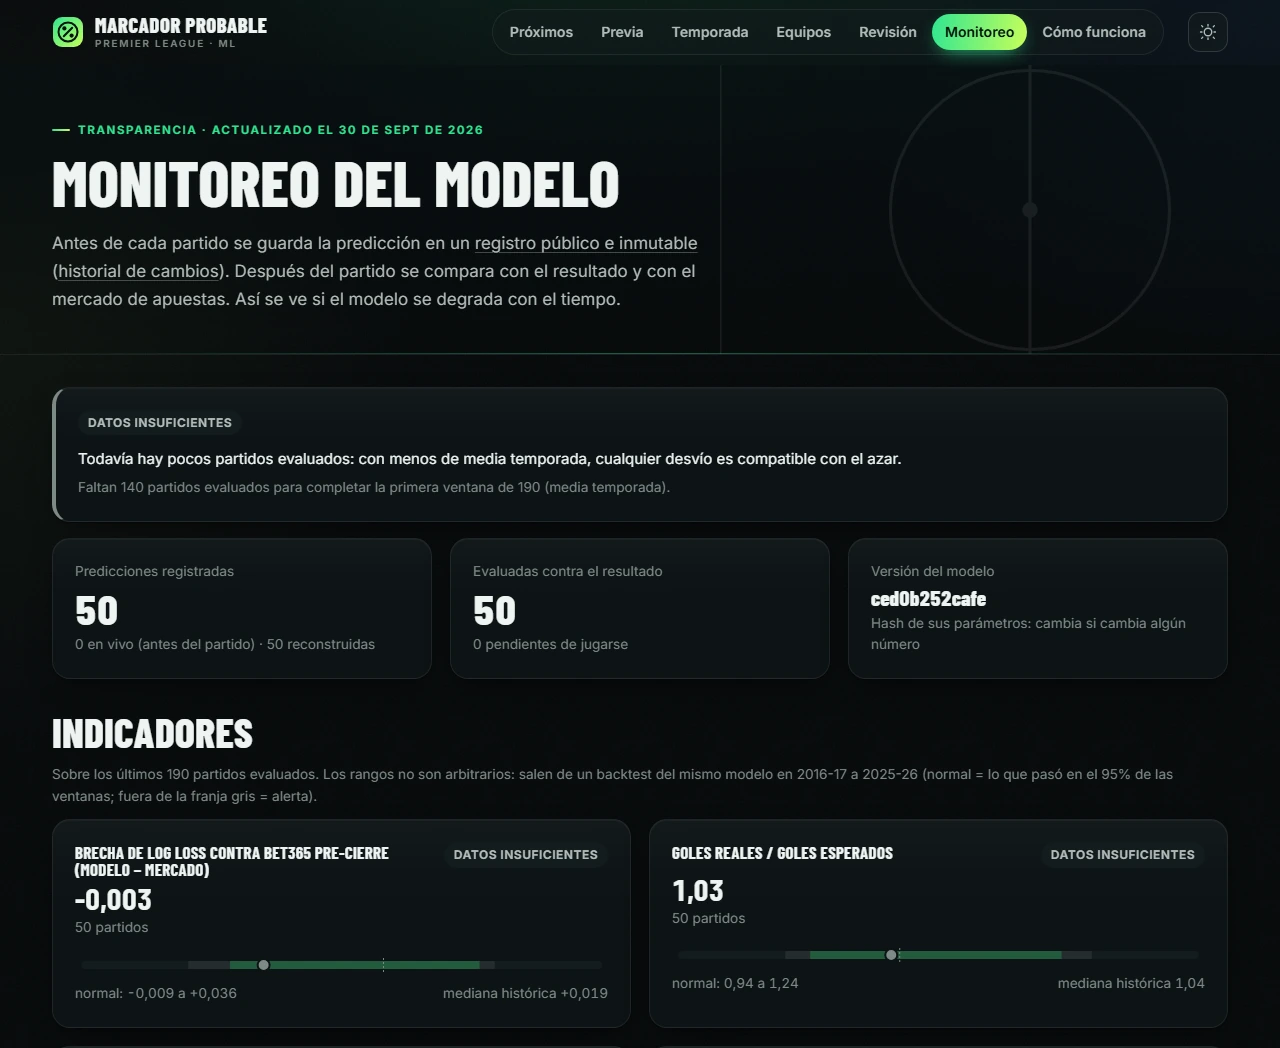
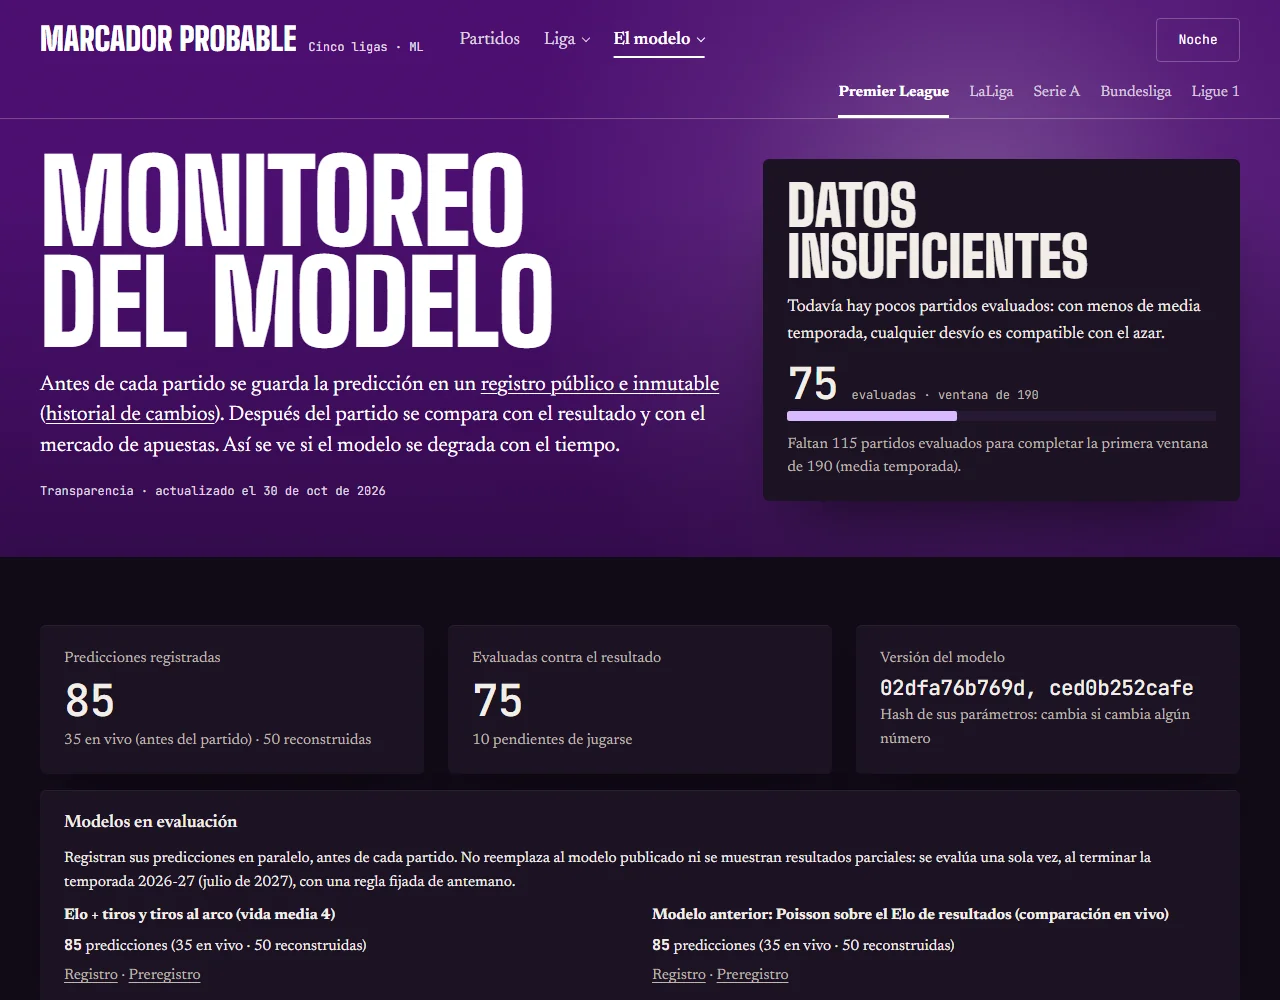
Actualiza README con el rediseño del sitio y capturas nuevas
- Nueva sección sobre el sitio: sistema visual por liga, tema día/noche,
  partidos como fixture, probabilidades animadas y movimiento sobrio.
- Capturas tomadas del sitio ya desplegado con el rediseño (home, partidos
  y monitoreo), en lugar de las de septiembre.

diff --git a/README.es.md b/README.es.md
@@ -22,6 +22,22 @@ preregistrados.
 | **¿Qué le puede preguntar un hincha?** | **Cómo termina la temporada.** 10.000 simulaciones de los partidos que faltan (con el Elo actualizado dentro de cada una) dan las probabilidades de campeón, top 4 y descenso. Evaluado con 2015-26 contra un simulador que ignora la fuerza de los equipos: 45% menos de Brier para el top 4 antes de la fecha 1, y bien calibrado. Igual le dio 0% al Leicester en 2015-16. |
 | **¿Dónde está la brecha con el mercado?** | No en los promedios sino en la información de cada partido: la mitad de la brecha sale del 14% de los partidos en los que modelo y mercado discrepan en 10 puntos o más, y en las fechas 1 a 5 se duplica (fichajes que los ratings todavía no absorbieron). |
 
+## El sitio web
+
+Rediseñado en octubre de 2026 sobre un único sistema visual; los datos, el modelo y las rutas no cambiaron.
+
+* **Una familia de color por liga.** La página toma el color de la liga que se mira; al cambiar de liga o de tema hay
+  una cortina corta de transición.
+* **Tema día y noche.** Botón en la barra superior ("Noche" / "Día"); ambos temas comparten los mismos tokens.
+* **Partidos como lista de fixture.** Cada partido es una fila; al abrirla se ve el análisis completo en el lugar:
+  grilla de marcadores, Elo, forma, cara a cara y descanso.
+* **Probabilidades de un vistazo.** Barra local / empate / visitante con relleno animado, números que cuentan hasta el
+  valor final y un medallón del club con escudo de licencia libre, diseño de la camiseta o iniciales.
+* **Movimiento sobrio.** Las animaciones solo cambian `transform` y `opacity`; el contenido se lee sin JavaScript, y con
+  la preferencia de movimiento reducido la página muestra su estado final de inmediato.
+
+![Página de partidos: el partido de la jornada con sus probabilidades y el selector de jornada](docs/img/matches.webp)
+
 ## Arquitectura
 
 ```mermaid

diff --git a/README.md b/README.md
@@ -79,6 +79,22 @@ flowchart LR
 
 Full tables, confidence intervals and reasoning: [model card](docs/model_card.md).
 
+## The website
+
+Redesigned in October 2026 on a single visual system; the data, the model and the routes did not change.
+
+* **One colour family per league.** The page takes the colour of the league being viewed, and switching league or theme
+  plays a short curtain transition.
+* **Day and night themes.** A toggle in the top bar ("Noche" / "Día"); both themes share the same tokens.
+* **Matches as a fixture list.** Each match is a row; opening it shows the full analysis in place: score grid, Elo,
+  form, head-to-head and rest.
+* **Probabilities at a glance.** A home / draw / away bar with an animated fill, count-up numbers, and a club medallion
+  with a free-licence crest, the club's kit design, or initials.
+* **Restrained motion.** Animations only change `transform` and `opacity`; the content reads without JavaScript, and with
+  the reduced-motion setting the page shows its final state straight away.
+
+![Matches page: the match of the round with its probabilities, and the round selector](docs/img/matches.webp)
+
 ## Five leagues
 
 The live product covers the Premier League (England), LaLiga (Spain), Serie A (Italy), the Bundesliga (Germany) and
